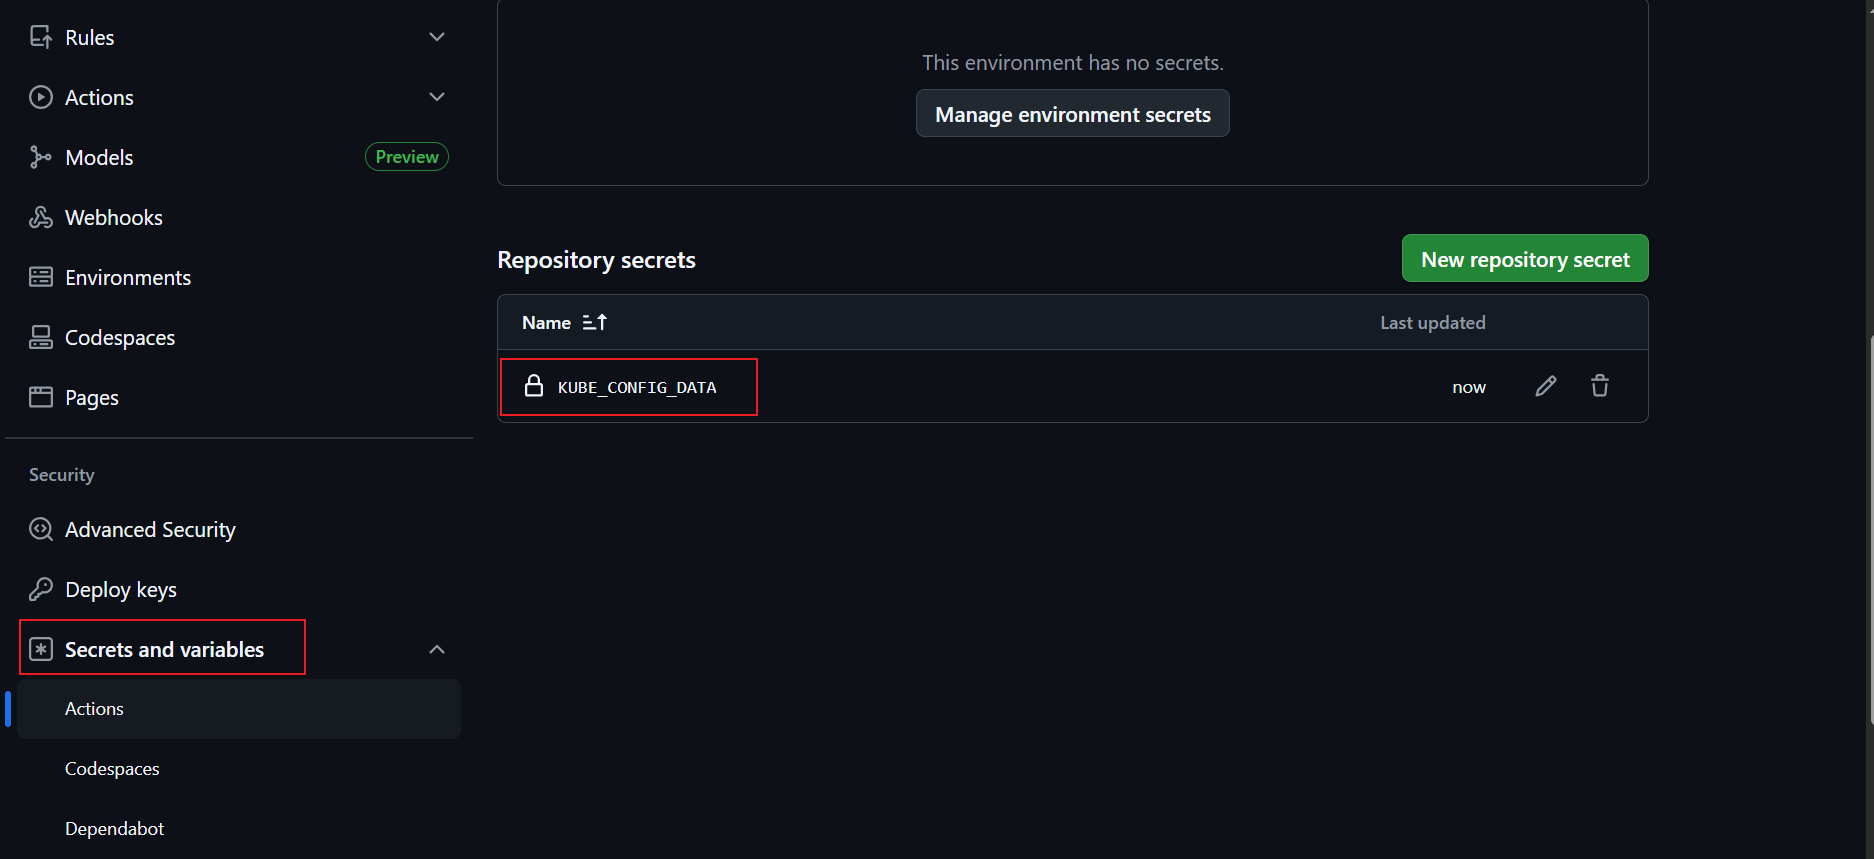
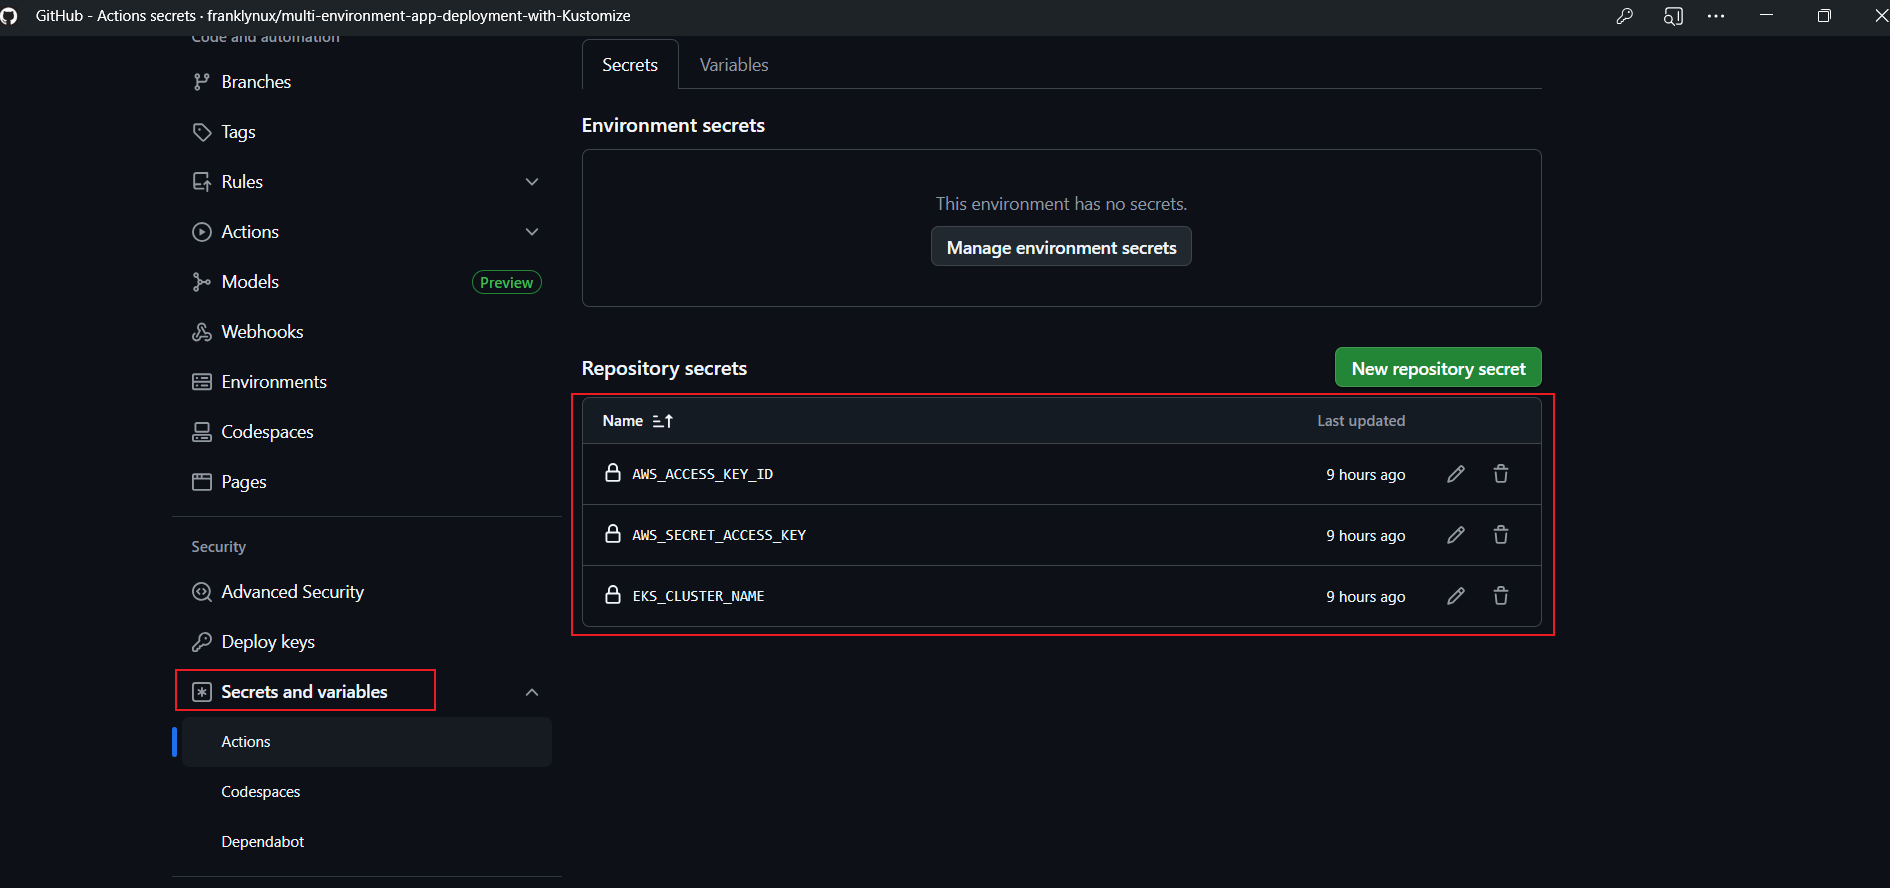
Update deployment workflow and documentation; enhance kubeconfig setup and increase replicas for development

diff --git a/README.md b/README.md
@@ -420,18 +420,23 @@ The role grants permissions to `get`, `list`, `watch`, `create`, `update`, and `
 
 ### Pipeline Configuration
 
-1. **Create a kubeconfig file using the service account token and certificate**:
+1. **Create and replace your kubeconfig file with service account credentials**:
 
    ```bash
-   # For Linux/macOS - Create a temporary kubeconfig file in /tmp (best practice)
-   cat > /tmp/kubeconfig << EOF
+   # For Linux/macOS
+   CA_CERT=$(kubectl get secret $(kubectl get serviceaccount webapp-service-account -o jsonpath="{.secrets[0].name}") -o jsonpath="{.data['ca\.crt']}")
+   SERVER=$(kubectl config view --minify -o jsonpath='{.clusters[0].cluster.server}')
+   TOKEN=$(kubectl get secret $(kubectl get serviceaccount webapp-service-account -o jsonpath="{.secrets[0].name}") -o jsonpath="{.data.token}" | base64 --decode)
+   
+   # Create and replace kubeconfig
+   cat > ~/.kube/config << EOF
    apiVersion: v1
    kind: Config
    clusters:
    - name: kubernetes
      cluster:
-       certificate-authority-data: $(kubectl get secret $(kubectl get serviceaccount webapp-service-account -o jsonpath="{.secrets[0].name}") -o jsonpath="{.data['ca\.crt']}")
-       server: $(kubectl config view --minify -o jsonpath='{.clusters[0].cluster.server}')
+       certificate-authority-data: ${CA_CERT}
+       server: ${SERVER}
    contexts:
    - name: webapp-service-account@kubernetes
      context:
@@ -441,18 +446,23 @@ The role grants permissions to `get`, `list`, `watch`, `create`, `update`, and `
    users:
    - name: webapp-service-account
      user:
-       token: $(kubectl get secret $(kubectl get serviceaccount webapp-service-account -o jsonpath="{.secrets[0].name}") -o jsonpath="{.data.token}" | base64 --decode)
+       token: ${TOKEN}
    EOF
    
-   # For Windows PowerShell - Create a temporary kubeconfig file in %TEMP% (best practice)
+   # For Windows PowerShell
+   $CA_CERT = kubectl get secret $(kubectl get serviceaccount webapp-service-account -o jsonpath="{.secrets[0].name}") -o jsonpath="{.data['ca\.crt']}"
+   $SERVER = kubectl config view --minify -o jsonpath='{.clusters[0].cluster.server}'
+   $TOKEN = kubectl get secret $(kubectl get serviceaccount webapp-service-account -o jsonpath="{.secrets[0].name}") -o jsonpath="{.data.token}" | ForEach-Object { [System.Text.Encoding]::UTF8.GetString([System.Convert]::FromBase64String($_)) }
+   
+   # Create and replace kubeconfig
    $kubeConfigContent = @"
    apiVersion: v1
    kind: Config
    clusters:
    - name: kubernetes
      cluster:
-       certificate-authority-data: $(kubectl get secret $(kubectl get serviceaccount webapp-service-account -o jsonpath="{.secrets[0].name}") -o jsonpath="{.data['ca\.crt']}")
-       server: $(kubectl config view --minify -o jsonpath='{.clusters[0].cluster.server}')
+       certificate-authority-data: ${CA_CERT}
+       server: ${SERVER}
    contexts:
    - name: webapp-service-account@kubernetes
      context:
@@ -462,59 +472,16 @@ The role grants permissions to `get`, `list`, `watch`, `create`, `update`, and `
    users:
    - name: webapp-service-account
      user:
-       token: $(kubectl get secret $(kubectl get serviceaccount webapp-service-account -o jsonpath="{.secrets[0].name}") -o jsonpath="{.data.token}" | ForEach-Object { [System.Text.Encoding]::UTF8.GetString([System.Convert]::FromBase64String($_)) })
+       token: ${TOKEN}
    "@
    
-   $kubeConfigContent | Out-File "$env:TEMP\kubeconfig" -Encoding utf8
+   New-Item -Path "$env:USERPROFILE\.kube" -ItemType Directory -Force
+   $kubeConfigContent | Out-File "$env:USERPROFILE\.kube\config" -Encoding utf8 -Force
+   
    ```
 
-2. **Base64 encode the kubeconfig file**:
-
-   ```bash
-   # For Linux/macOS
-   KUBE_CONFIG_DATA=$(cat /tmp/kubeconfig | base64 -w 0)
-   
-   # For Windows PowerShell
-   $KUBE_CONFIG_DATA = [Convert]::ToBase64String([System.Text.Encoding]::UTF8.GetBytes((Get-Content -Raw "$env:TEMP\kubeconfig")))
-   ```
-
-3. **Add GitHub repository secrets**:
-   - Go to your GitHub repository
-   - Navigate to Settings > Secrets > New repository secret
-   - Add a secret named `KUBE_CONFIG_DATA` with the base64-encoded value from the previous step
-
-4. **Create the workflow file**:
-   The workflow file is located at `.github/workflows/deploy.yml` and defines the CI/CD pipeline:
-
-   ```yaml
-   # .github/workflows/deploy.yml
-   name: Deploy to Kubernetes
-   
-   on:
-     push:
-       branches: [main]
-   
-   jobs:
-     deploy:
-       runs-on: ubuntu-latest
-       steps:
-         - uses: actions/checkout@v2
-         
-         - name: Set up Kustomize
-           uses: imranismail/setup-kustomize@v1
-           
-         - name: Set up kubectl
-           uses: azure/setup-kubectl@v1
-           
-         - name: Configure kubectl
-           run: |
-             echo "${{ secrets.KUBE_CONFIG_DATA }}" | base64 -d > /tmp/kubeconfig
-             export KUBECONFIG=/tmp/kubeconfig
-             
-         - name: Deploy to environment
-           run: |
-             kustomize build overlays/dev | kubectl apply -f -
-   ```
+2. **Create the workflow file**:
+   The workflow file is located at `.github/workflows/deploy.yaml` and defines the CI/CD pipeline:
 
 ![GitHub Secrets](screenshots/github-secrets.png)
 ![Workflow File](screenshots/workflow-file.png)
@@ -522,7 +489,7 @@ The role grants permissions to `get`, `list`, `watch`, `create`, `update`, and `
 ### Testing the Pipeline
 
 1. **Make a change to the repository**:
-   - Modify a file in the repository
+   - Modify a file in the any of the overlays e.g. in the `overlays/dev` directory, change the replicas in the `patch.yaml` file to 2.
    - Commit and push the changes
 
 2. **Monitor the GitHub Actions workflow**:
@@ -562,9 +529,9 @@ The role grants permissions to `get`, `list`, `watch`, `create`, `update`, and `
 ### GitHub Actions Issues
 
 1. **Authentication Failures**:
-   - Verify the `KUBE_CONFIG_DATA` secret is correctly set
-   - Check that the service account token is valid
-   - Ensure the service account has appropriate permissions
+   - Verify the AWS credentials are correctly set
+   - Check that the EKS cluster name is correct
+   - Ensure the IAM user has appropriate permissions for EKS
 
 2. **Workflow Failures**:
    - Check the GitHub Actions logs for specific error messages
